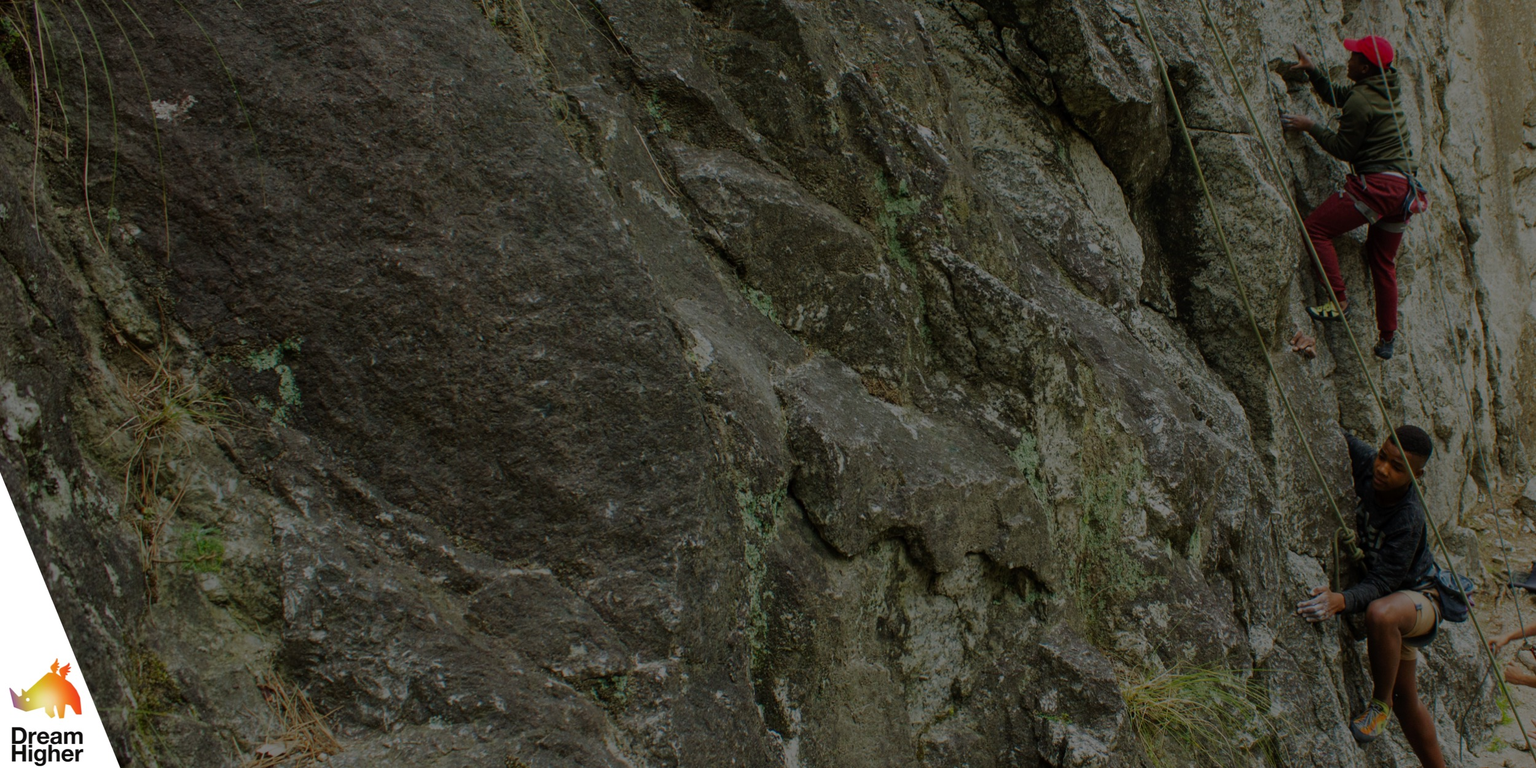
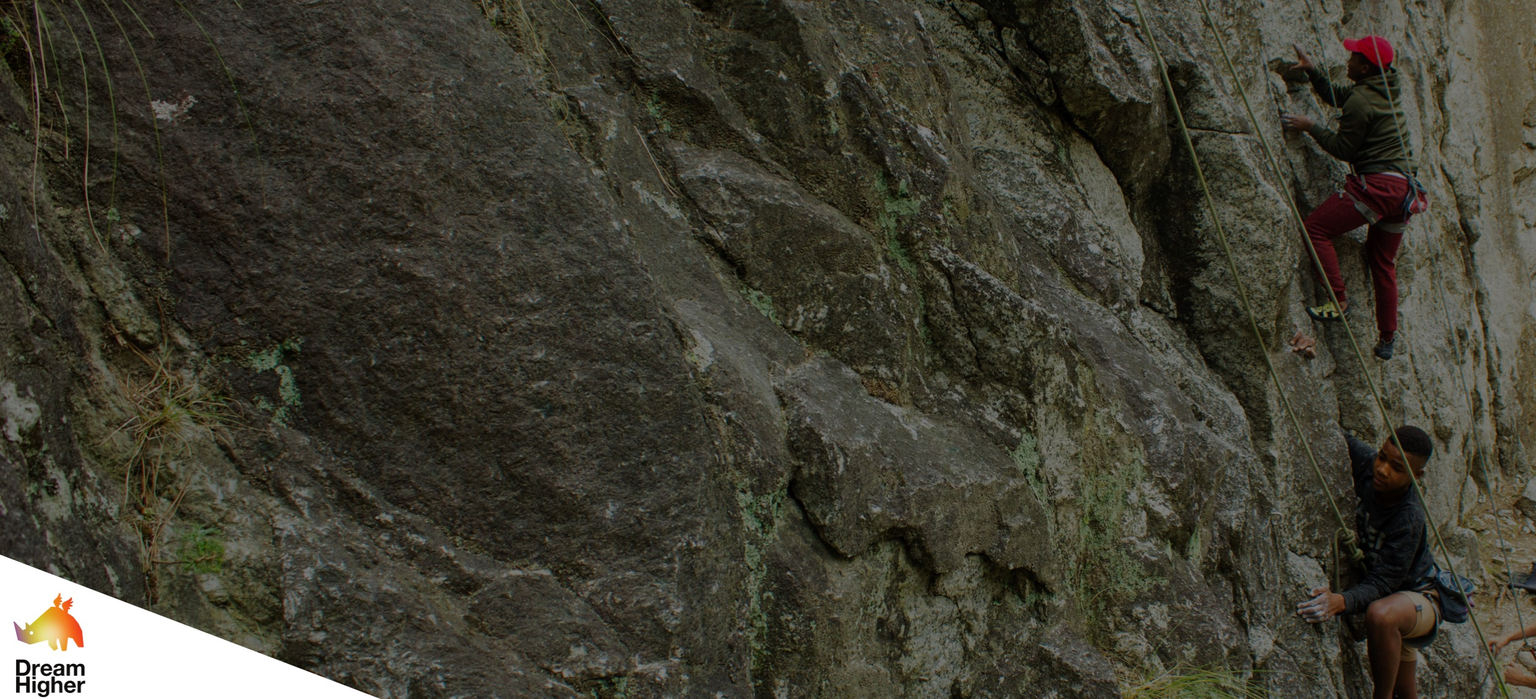
new changes

diff --git a/content/about/_index.md b/content/about/_index.md
@@ -1,52 +1,47 @@
 ---
 title: "About"
-description: "Our story"
+description: " "
 featured_image: '/images/gym_dh.jpg'
 ---
 
 ## Why climbing  
 
-Climbing exposes us to a range of emotions:  fear, frustration, pride, and joy; and to manage these emotions we need to learn self control, balance, patience and commitment. We at DreamHigher believe that this journey leads to growth and emotional balance  
-  
-Our goal is to share the these benfits and the pure joy of climbing with vulnerable youth in Cape Town, South Africa
+Climbing exposes us to a range of emotions such as fear, frustration, pride, and joy; and to manage these emotions we need to learn self control, balance, patience and commitment. At DreamHigher, we believe that this journey leads to growth and emotional balance
+
+Our home of Cape Town, South Africa is one of the world's premier rock climbing destinations, with an alomst endless array of high quality boulders, sport and traditional climbing routes. Within a few hours drive lies the bouldering mecca of Rocklands, visited by the best climbers in the world every year
+
+The emotional benefits of climbing, the strong bonds within the climbing community, and exposure to the beauty of the natural world make this sport an ideal opportunity to build bridges occurs social divides, connect youth with their natural heritage and heal the damage inflicted by violence, substance abuse and poverty on the youth of Cape Town.
 
 ## How we started  
 
-Recognizing the benefits that climbing offers to vulnerable youth, a small group of local climbers approached the Homestead Project for Street Children and proposed to introduce the youth under their care to climbing. 
+Recognizing these benefits, a small group of local climbers approached the Homestead Project for Street Children and proposed to introduce the youth under their care to climbing. 
+
+[The Homestead Project for Street Children](http://homestead.org.za/) is a Cape Town based non-profit addressing to the plight of children living, working and begging on the streets of Cape Town. 
   
-We now offer multiple indoor coaching sessions a week with input from some of South Africa's top climbing coaches, and bi-monthly outdoor days, boldering and sport climbing around the Cape Peninsula under the supervision of experienced climbing guides
+We now offer multiple indoor coaching sessions a week for vulnerable youth from the Homestead and other facilities at Cape Town's premier indoor bouldering gym [Bloc 11](http://www.bloc11.co.za), with input from some of South Africa's top climbing coaches. We also have regular outdoor days, bouldering and sport climbing around the Cape Peninsula under the supervision of experienced climbing guides.
 
 ## Our supporters  
-
-<a href="http://www.bloc11.co.za">
-  <img src="/images/bloc11.jpeg" alt="bloc11" style="width:300px;height:300px;">
-</a>  
+Our work is made possible by support from  
   
-Bloc 11 indoor bouldering gym hosts our initiative and provides our climbers with a world class facilitly in which to train  
+<a href="http://www.bloc11.co.za">
+  <img src="/images/bloc11.jpeg" alt="bloc11" style="width:150px;height:150px;"> </a>  
   
 <a href="https://vertigoadventures.co.za">
-  <img src="/images/vertigo.jpg" alt="vertigo" style="width:300px;height:300px;">
+  <img src="/images/vertigo.png" alt="vertigo" style="width:200px;height100px;">
 </a>  
-  
-Vertigo adventures has provided high quality climbing gear and experience guides  
   
 <a href="https://madrock.com/">
-  <img src="/images/mad_rock.png" alt="mad rock" style="width:300px;height:300px;">
+  <img src="/images/mad_rock.png" alt="mad rock" style="width:150px;height:150px;">
 </a>  
-  
-Mad Rock makes sure our most dedicated members have high performance climbing shoes  
   
 <a href="https://frictionlabs.com/">
-  <img src="/images/friction.png" alt="friction labs" style="width:300px;height:300px;">
-</a>  
-  
-Friction Labs provides us with the world's most advanced fairy dust/climbing chalk.  
+  <img src="/images/friction.png" alt="friction labs" style="width:150px;height:150px;">
+</a>    
   
 <a href="http://www.westerncapeclimbing.co.za/">
-  <img src="/images/wcc.jpg" alt="wcc" style="width:300px;height:300px;">
-</a>
-<a href="http://www.sancf.org/">
-  <img src="/images/sancf.jpg" alt="wcc" style="width600px;height:200px;">
-</a>
+  <img src="/images/wcc.jpg" alt="wcc" style="width:150px;height:150px;">
+</a>  
   
-DreamHigher is affiliated with Western Cape Climbing and South African National Climbing Federations
+<a href="http://www.sancf.org/">
+  <img src="/images/sancf.jpg" alt="wcc" style="width:350px;height:100px;">
+</a>

diff --git a/content/Support us/_index.md b/content/Support us/_index.md
@@ -1,12 +1,12 @@
 ---
 title: "Support us"
-description: "Help support our work"
+description: " "
 featured_image: '/images/geocache_dh.jpg'
 ---
 
 ## Donate  
   
-We are currently in the process of registering as a non-profit capable of accecpting charitable donations. At the moment, if you would like to help financially, please contact us [here](./contact), or pay us a visit at [bloc 11](https://bloc11.co.za/).  
+We are currently in the process of registering as a non-profit capable of accepting charitable donations. At the moment, if you would like to help financially, please contact us [here](./contact), or pay us a visit at [bloc 11](https://bloc11.co.za/).  
   
 ## Gear  
   
@@ -18,11 +18,25 @@ Helmets
 GriGris and ATC's  
 Crashpads  
 Climbing sportwear and apparell  
-Hiking shoes  
+Hiking shoes 
+
+## Join us  
   
+We go climbing and bouldering around the Cape Peninsula regularly. It is always great to have a good crew of climbers at the crag simply to encourage the DreamHigher crew, share beta and make them feel part of the climbing community. [Get hold of us](./contact) to find our when and where our next adventure will be happening
+
+## Volunteer  
+  
+If you have a skill that you think could be of help to us, and would like to volunteer you time, please [Get in touch](./contact). We are always looking for people with skills in web design, legal issues, sports science or other relevant areas to contribute to our cause
+
 ## Social media  
   
 Also, remember to follow us on social media   
-IG: [@dreamhigher](https://www.instagram.com/dreamhigher/)  
-Facebook [@DreamHigherCT](https://www.facebook.com/DreamHigherCT/)
+
+ <a href="https://www.instagram.com/dreamhigher/">
+  <img src="/images/ig_logo.png" alt="dreamhigher instagram" style="width:80px;height:80px;">
+</a>[@dreamhigher](https://www.instagram.com/dreamhigher/)    
+  
+ <a href="https://www.facebook.com/DreamHigherCT/">
+  <img src="/images/fb_logo.png" alt="dreamhigher facebook" style="width:90px;height:90px;">
+</a>[@DreamHigherCT](https://www.facebook.com/DreamHigherCT/)
 

diff --git a/content/post/2017-11-17-bloc-11-summer-bolder-league.md b/content/post/2017-11-17-bloc-11-summer-bolder-league.md
@@ -1,8 +1,8 @@
 ---
-title: Bloc 11 summer bolder league
+title: Bloc 11 summer boulder league
 author: DreamHigher
 date: '2017-11-17'
-slug: bloc-11-summer-bolder-league
+slug: bloc-11-summer-boulder-league
 categories: []
 tags:
   - Bloc11
@@ -12,5 +12,5 @@ featured_image: 'images/bloc11_league.jpg'
 ---
 
 Are you planning to enter the Summer Boulder league at Bloc 11? Good news if you’re looking for beginner climber to form your team! Our DreamHigher guys are super amped to join the fun and are looking for teams. This is a great opportunity for you to get to know the DreamHigher team, and help them on their journey to becoming confident, strong climbers.
-Sibo, Denis, Eric, Patrick, Thurlow are available for at least 3-4/5 Thursdays. Glenn and Margaux have already offered a spot on their team so we are looking for our guys to join 4 more teams! We will randomise the matches once we have the other teams confirmed.
+Sibo, Denis, Eric, Patrick, Thurlow are available for at least 3-5 Thursdays. Glenn and Margaux have already offered a spot on their team so we are looking for our guys to join 4 more teams! We will randomise the matches once we have the other teams confirmed.
 Keen to have one of the guys on your team? Don’t be shy and contact us [here](./contact) 

diff --git a/content/post/2018-01-16-bloc-11-and-mad-rock-award-our-most-dedicated-climbers.md b/content/post/2018-01-16-bloc-11-and-mad-rock-award-our-most-dedicated-climbers.md
@@ -1,0 +1,19 @@
+---
+title: Bloc 11 and Mad Rock award our most dedicated climbers
+author: Glenn
+date: '2018-01-16'
+slug: bloc-11-and-mad-rock-award-our-most-dedicated-climbers
+categories:
+  - Awards
+tags:
+  - Bloc11
+  - Mad Rock
+description: ''
+featured_image: '/images/pat_jo.jpg'
+---
+
+At the end of the 2017-2018 Summer boulder league, DreamHigher was able to award the dedication shown by our most commited members to date. While we are very fortunate to be hosted by [bloc 11](https://bloc11.co.za/) twice a week, we all know that to truly excel as climbers we need full access to top class facilities and gear. [Bloc 11](https://bloc11.co.za/) generously donated four full memberships for 2018 to DreamHigher and [Mad Rock](https://madrock.com/) gifted each climber with new climbing shoes. 
+
+We our very proud of the commitment shown by our guys and are very excited to see them training regularly. Big thanks to [Bloc 11](https://bloc11.co.za/) and [Mad Rock](https://madrock.com/) for their continued support.
+
+If you bump into them at [Bloc 11](https://bloc11.co.za/) be sure to give them a fistbump and share some beta

diff --git a/content/Contact/_index.md b/content/Contact/_index.md
@@ -1,6 +1,6 @@
 ---
 title: Contact
-description: We'd love to hear from you
+description:  
 featured_image: '/images/rh_dh.jpg'
 
 ---
@@ -14,10 +14,14 @@ Send us an [email](mailto:dreamhigherct@gmail.com): dreamhigherct@gmail.com
 We are based at [bloc 11](https://bloc11.co.za/) indoor climbing in Cape Town, South Africa  
   
 ## Social media  
+ 
+ <a href="https://www.instagram.com/dreamhigher/">
+  <img src="/images/ig_logo.png" alt="dreamhigher instagram" style="width:80px;height:80px;">
+</a>[@dreamhigher](https://www.instagram.com/dreamhigher/)    
   
-IG: [@dreamhigher](https://www.instagram.com/dreamhigher/)  
-  
-Facebook [@DreamHigherCT](https://www.facebook.com/DreamHigherCT/)
+ <a href="https://www.facebook.com/DreamHigherCT/">
+  <img src="/images/fb_logo.png" alt="dreamhigher facebook" style="width:90px;height:90px;">
+</a>[@DreamHigherCT](https://www.facebook.com/DreamHigherCT/)
 
 ## Here
   

diff --git a/content/_index.md b/content/_index.md
@@ -1,6 +1,6 @@
 ---
 title: " "
-featured_image: '/images/bb1_dh.jpg'
+featured_image: '/images/bb2_dh.jpg'
 description: " "
 ---
 An outreach initiative for the vulnerable youth of Cape Town, building confidence and bridging social divides through rock climbing

diff --git a/content/post/_index.md b/content/post/_index.md
@@ -1,5 +1,5 @@
 ---
 title: "News"
 featured_image: '/images/hig_dh.jpg'
-description: "recent happenings"
+description: " "
 ---
